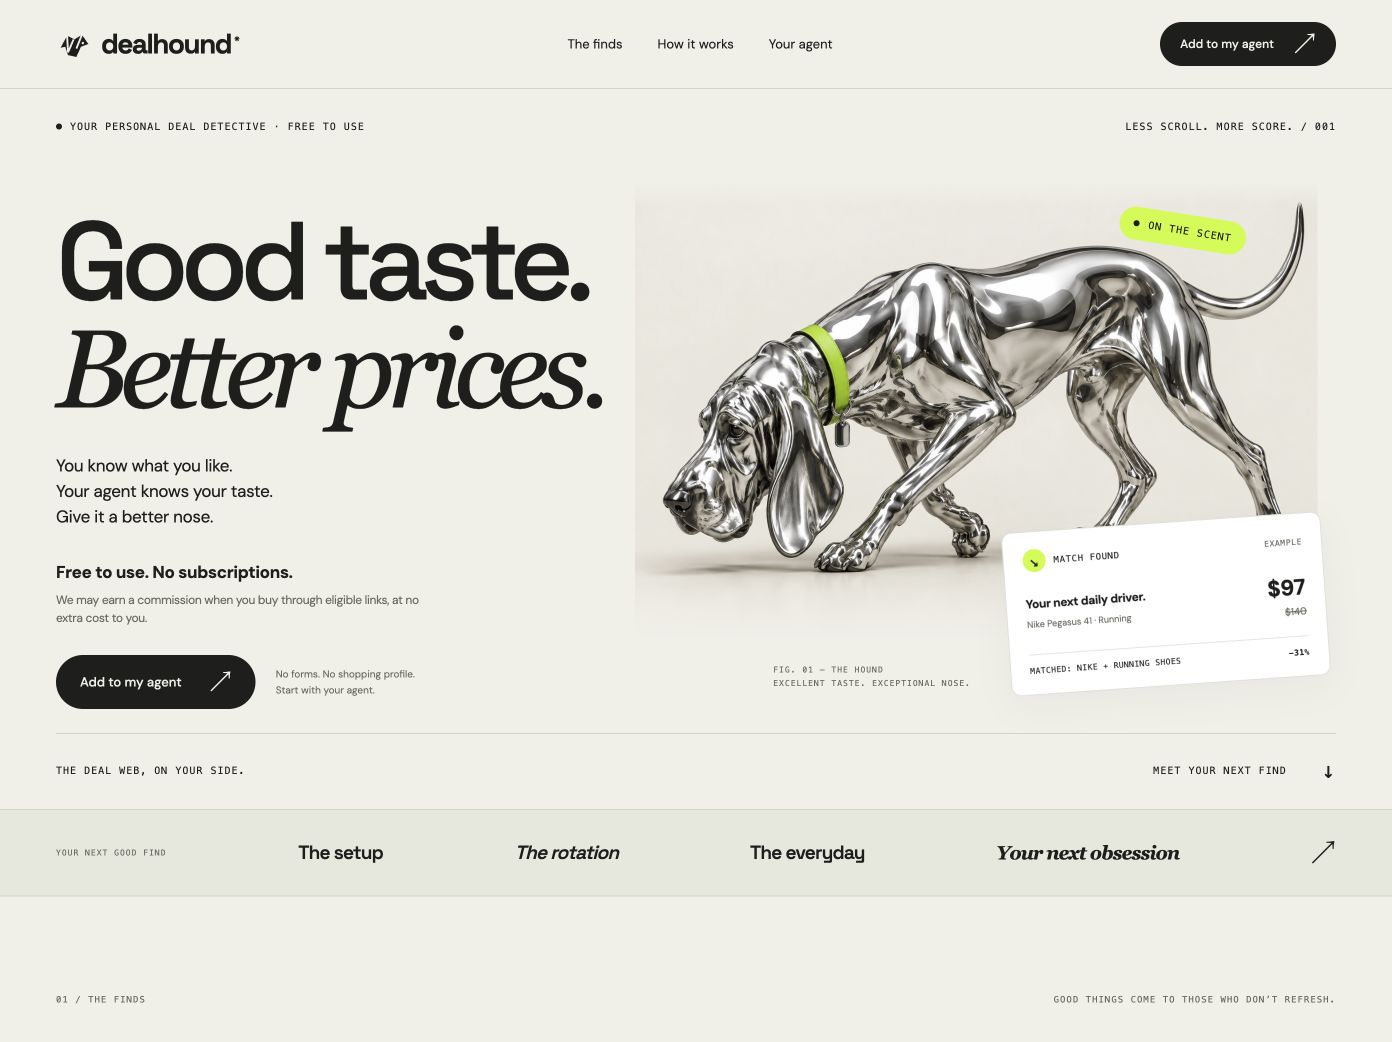
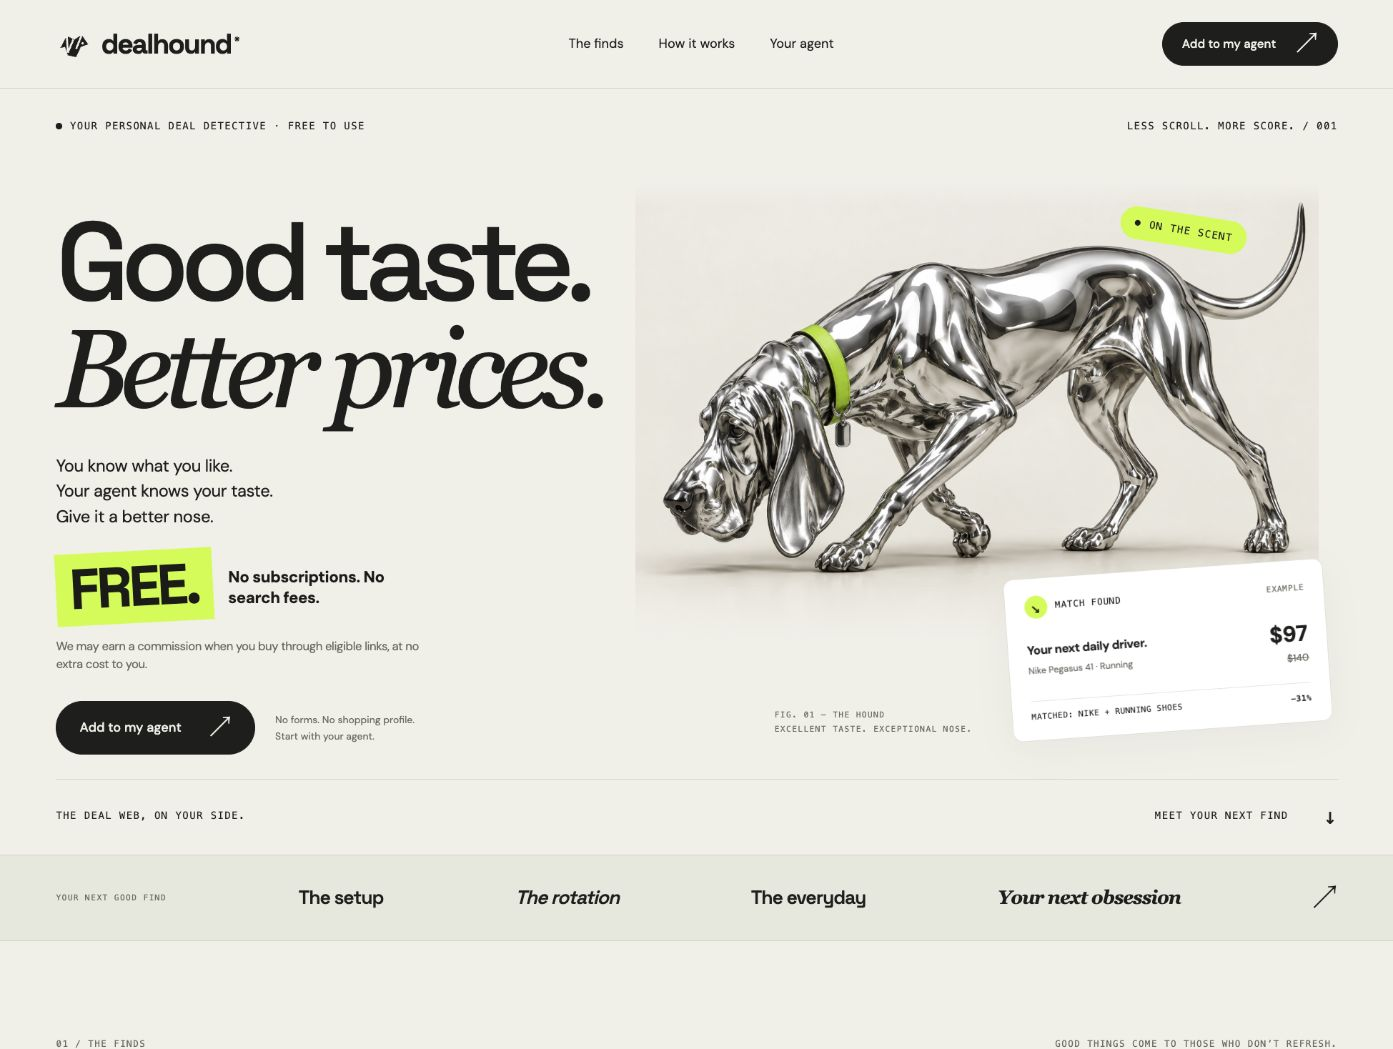
Make FREE a prominent hero callout

diff --git a/index.html b/index.html
@@ -9,7 +9,7 @@
   <link rel="preconnect" href="https://fonts.googleapis.com">
   <link rel="preconnect" href="https://fonts.gstatic.com" crossorigin>
   <link href="https://fonts.googleapis.com/css2?family=DM+Sans:wght@400;500;600;700&family=Space+Grotesk:wght@400;500;600;700&display=swap" rel="stylesheet">
-  <link rel="stylesheet" href="style.css?v=20261001c">
+  <link rel="stylesheet" href="style.css?v=20261001d">
   <script src="script.js" defer></script>
 </head>
 <body>
@@ -28,7 +28,7 @@
         <div class="hero-copy">
           <h1>Good taste.<br><span>Better prices.</span></h1>
           <p>You know what you like.<br>Your agent knows your taste.<br>Give it a better nose.</p>
-          <p class="hero-free"><strong>Free to use. No subscriptions.</strong><span>We may earn a commission when you buy through eligible links, at no extra cost to you.</span></p><div class="hero-action"><button class="button" data-connect>Add to my agent <span aria-hidden="true">↗</span></button><span class="hero-micro">No forms. No shopping profile.<br>Start with your agent.</span></div>
+          <p class="hero-free"><strong><span class="free-word">FREE.</span><span class="free-detail">No subscriptions. No search fees.</span></strong><span>We may earn a commission when you buy through eligible links, at no extra cost to you.</span></p><div class="hero-action"><button class="button" data-connect>Add to my agent <span aria-hidden="true">↗</span></button><span class="hero-micro">No forms. No shopping profile.<br>Start with your agent.</span></div>
         </div>
         <div class="hound-art"><img src="assets/chrome-hound.png" alt="A chrome bloodhound sculpture with a lime collar, sniffing out its next find" fetchpriority="high" width="1536" height="1024"></div>
         <div class="scent-tag mono"><span class="status-dot"></span> ON THE SCENT</div>

diff --git a/style.css b/style.css
@@ -13,3 +13,5 @@
 .hero-free{max-width:390px;margin:20px 0 24px}.hero-free strong{display:block;font-size:17px;font-weight:700}.hero-free span{display:block;margin-top:6px;font-size:12px;line-height:1.5;color:var(--muted,#65665f)}.hero-copy .hero-free{font-size:12px;line-height:1.5}.official-avatar{background:#fff;border:1px solid #deded5;font-style:normal;overflow:visible}.official-avatar img{width:32px;height:32px;object-fit:contain}.official-avatar .openai-mark{width:58px;height:58px;max-width:none}
 
 .hero-stage{padding-bottom:24px}
+
+.hero-copy .hero-free{margin:22px 0 0;max-width:390px}.hero-free strong{display:flex;align-items:center;gap:15px}.hero-free strong .free-word{display:block;background:var(--lime,#d5ff50);color:#1d1e19;font-family:"Space Grotesk",sans-serif;font-size:56px;font-weight:700;line-height:1;letter-spacing:-3px;padding:8px 14px;margin:0;transform:rotate(-3deg)}.hero-free strong .free-detail{font-size:16px;font-weight:700;line-height:1.3;color:#1d1e19;max-width:170px;margin:0}.hero-free>span{margin-top:14px;font-size:12px;line-height:1.5}@media(max-width:600px){.hero-free strong .free-word{font-size:48px}.hero-free strong .free-detail{font-size:14px;max-width:150px}}
